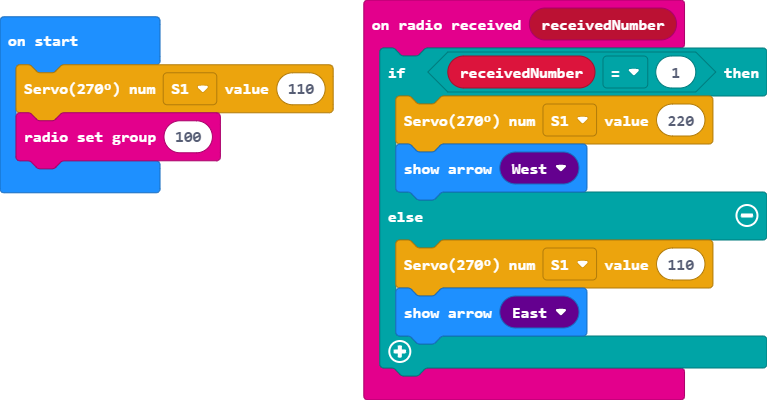
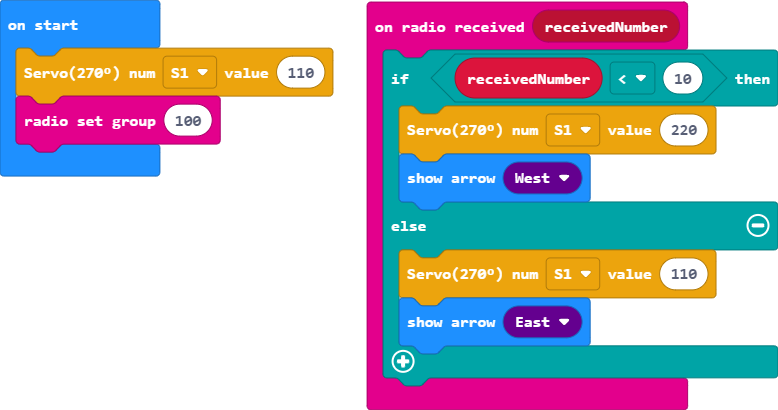
Update pxt.json, main.blocks, main.ts

Changed region(s): [[0.0, 0.0, 1.0, 1.0], [0.9896, 0.12, 1.0, 0.15]]

diff --git a/main.ts b/main.ts
@@ -1,5 +1,5 @@
 radio.onReceivedNumber(function (receivedNumber) {
-    if (receivedNumber == 1) {
+    if (receivedNumber < 10) {
         SuperBit.Servo2(SuperBit.enServo.S1, 220)
         basic.showArrow(ArrowNames.West)
     } else {
